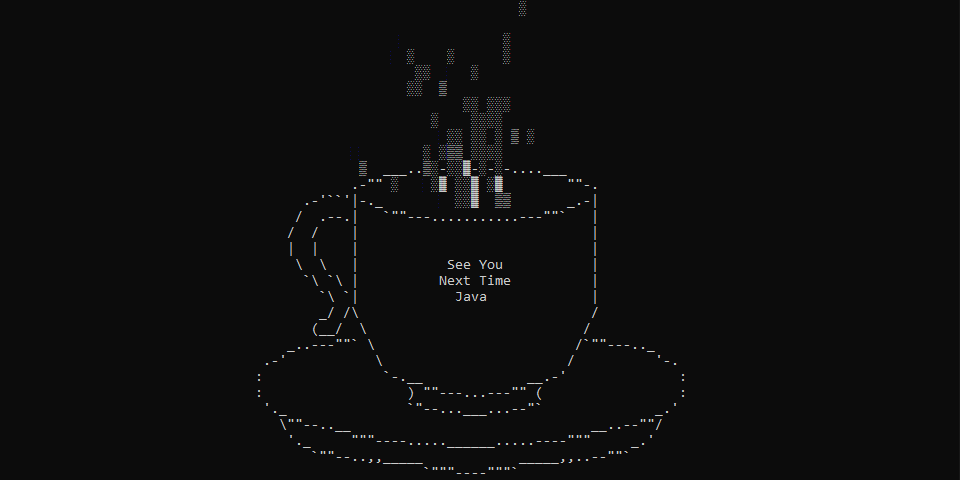
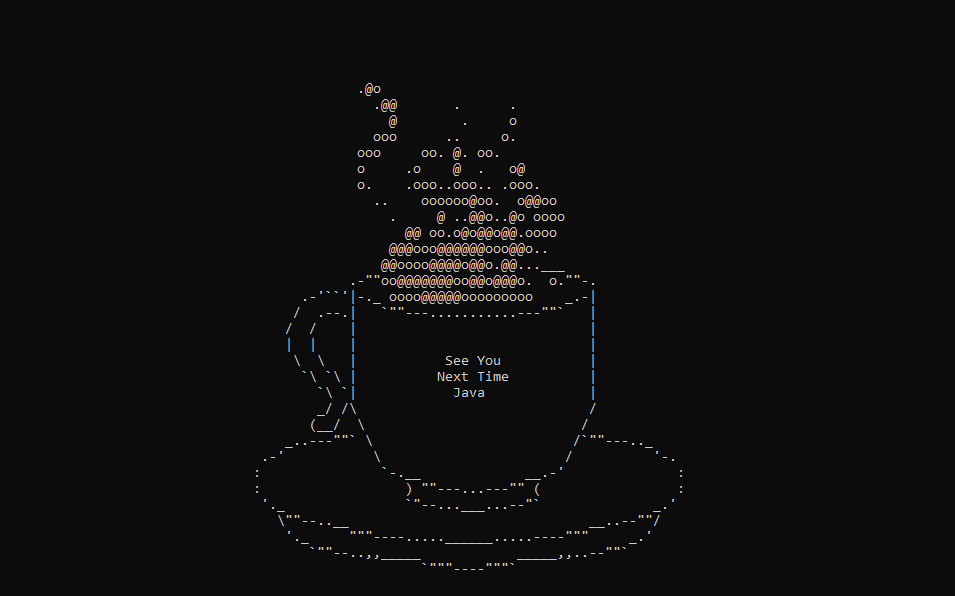
Made smoke particle look a bit better

diff --git a/src/main/java/org/maikodev/rendering/layers/ParticleLayer.java b/src/main/java/org/maikodev/rendering/layers/ParticleLayer.java
@@ -51,7 +51,6 @@ public class ParticleLayer {
         Instant currentCycleTime = Instant.now();
         if (Duration.between(timeSinceLastFixedUpdate, currentCycleTime).compareTo(FIXED_DELTA_TIME) < 0) return;
 
-        THREAD_POOL.invokeAll(CLEAR_DENSITY);
         THREAD_POOL.invokeAll(UPDATE_PHYSICS);
         THREAD_POOL.invokeAll(RASTERIZE_PARTICLES);
 
@@ -66,6 +65,8 @@ public class ParticleLayer {
         /* Schedule new particles */
         boolean isScheduleTime = Duration.between(lastScheduleTime, currentCycleTime).compareTo(SPAWN_DELAY_TIME) > 0;
         if (isScheduleTime && !AVAILABLE_PARTICLES.isEmpty()) {
+            THREAD_POOL.invokeAll(CLEAR_DENSITY);
+
             int spawnCount = -1;
 
             do {
@@ -136,7 +137,7 @@ public class ParticleLayer {
         int outerBeginColumn = MID_EMITTER_COLUMN - MID_EMITTER_COUNT, outerEndColumn = MID_EMITTER_COLUMN + MID_EMITTER_COUNT - 1;
         int innerBeginColumn = outerBeginColumn + 2, innerEndColumn = outerEndColumn - 3;
 
-        byte emitterRow = 13;
+        byte emitterRow = 19;
         for (int layerColumn = outerBeginColumn; layerColumn < outerEndColumn; layerColumn++) {
             if (layerColumn > innerBeginColumn && layerColumn < innerEndColumn) {
                 EMITTERS[layerColumn - outerBeginColumn] = new ParticleEmitter(new Position(layerColumn, emitterRow), AVAILABLE_PARTICLES, ACTIVE_PARTICLES, AVERAGE_LIFETIME);
@@ -179,8 +180,8 @@ public class ParticleLayer {
     private final List<Callable<Object>> RASTERIZE_PARTICLES;
 
     private final static Duration FIXED_DELTA_TIME = Duration.ofMillis(20);
-    private final static Duration SPAWN_DELAY_TIME = Duration.ofMillis(200);
-    private final static double MEAN_SPAWN_AMOUNT = 20.0;
+    private final static Duration SPAWN_DELAY_TIME = Duration.ofMillis(500);
+    private final static double MEAN_SPAWN_AMOUNT = 8.0;
     private final static double PARTICLE_STDDEV = 4.0;
     private final static byte NUMBER_OF_EMITTERS = 29;
 

diff --git a/src/main/java/org/maikodev/physics/Particle.java b/src/main/java/org/maikodev/physics/Particle.java
@@ -37,7 +37,7 @@ public class Particle implements Runnable {
 
         currentLifeTime = 0;
         isAvailable = false;
-        oscillationAmplitude = RANDOM_GENERATOR.nextFloat(1f, 2f);
+        oscillationAmplitude = RANDOM_GENERATOR.nextFloat(2f, 3f);
 
         return this;
     }
@@ -63,8 +63,9 @@ public class Particle implements Runnable {
 
     private synchronized static void updateDensity(byte[] densityMap, int approxPosition, float particleIntensity) {
         byte previousDensity = densityMap[approxPosition];
+        byte nextDensity = (byte)(previousDensity + DENSITY_RESOLUTION * particleIntensity);
 
-        densityMap[approxPosition] = (byte)(previousDensity + DENSITY_RESOLUTION * particleIntensity);
+        densityMap[approxPosition] = (nextDensity < DENSITY_MAX) ? nextDensity : previousDensity;
     }
 
     private float posX;
@@ -87,4 +88,5 @@ public class Particle implements Runnable {
 
     private static final Random RANDOM_GENERATOR = new Random();
     private static final int DENSITY_RESOLUTION = 8;
+    private static final int DENSITY_MAX = DENSITY_RESOLUTION * 2;
 }

diff --git a/src/main/java/org/maikodev/CupData.java b/src/main/java/org/maikodev/CupData.java
@@ -16,6 +16,12 @@ public class CupData {
             "                                                        ",
             "                                                        ",
             "                                                        ",
+            "                                                        ",
+            "                                                        ",
+            "                                                        ",
+            "                                                        ",
+            "                                                        ",
+            "                                                        ",
             "                 ___...----------....___                ",
             "             .-\"\"                       \"\"-.            ",
             "       .-'``'|-._                       _.-|            ",

diff --git a/src/main/java/org/maikodev/thread/task/ClearDensityTask.java b/src/main/java/org/maikodev/thread/task/ClearDensityTask.java
@@ -11,8 +11,14 @@ public class ClearDensityTask implements Runnable {
 
     @Override
     public void run() {
+        int particleIndex;
+        byte particleDensity;
+
         for (int column = 0; column < MAX_COLUMN; column++) {
-            PARTICLE_DENSITY_MAP[RowMajor.getIndex(ASSIGNED_ROW, column, MAX_COLUMN)] = 0;
+            particleIndex = RowMajor.getIndex(ASSIGNED_ROW, column, MAX_COLUMN);
+            particleDensity = PARTICLE_DENSITY_MAP[particleIndex];
+
+            PARTICLE_DENSITY_MAP[particleIndex] = (particleDensity > 0) ? (byte)(particleDensity - 1) : particleDensity;
         }
     }
 

diff --git a/src/main/java/org/maikodev/App.java b/src/main/java/org/maikodev/App.java
@@ -14,7 +14,7 @@ public class App {
         CoffeeForeground foregroundLayer = new CoffeeForeground();
         TerminalDisplayLayer coffeeDisplay = foregroundLayer.getDisplay();
 
-        particleLayer = new ParticleLayer(coffeeDisplay.getBufferWidth(), coffeeDisplay.getBufferHeight(), (byte)127, 2500);
+        particleLayer = new ParticleLayer(coffeeDisplay.getBufferWidth(), coffeeDisplay.getBufferHeight(), (byte)127, 2000);
 
         renderer = new LayeredRenderer(coffeeDisplay, System.out);
         renderer.addLayer(particleLayer.getDisplay(), 1);

diff --git a/src/main/java/org/maikodev/thread/task/RasterizeParticleTask.java b/src/main/java/org/maikodev/thread/task/RasterizeParticleTask.java
@@ -44,5 +44,5 @@ public class RasterizeParticleTask implements Runnable {
     private final int ASSIGNED_ROW;
     private final int MAX_COLUMN;
 
-    public static final char[] PARTICLE_CHARACTERS = new char[]{ '░', '▒', '▓' };
+    public static final char[] PARTICLE_CHARACTERS = new char[]{ '.', 'o', '@' };
 }
